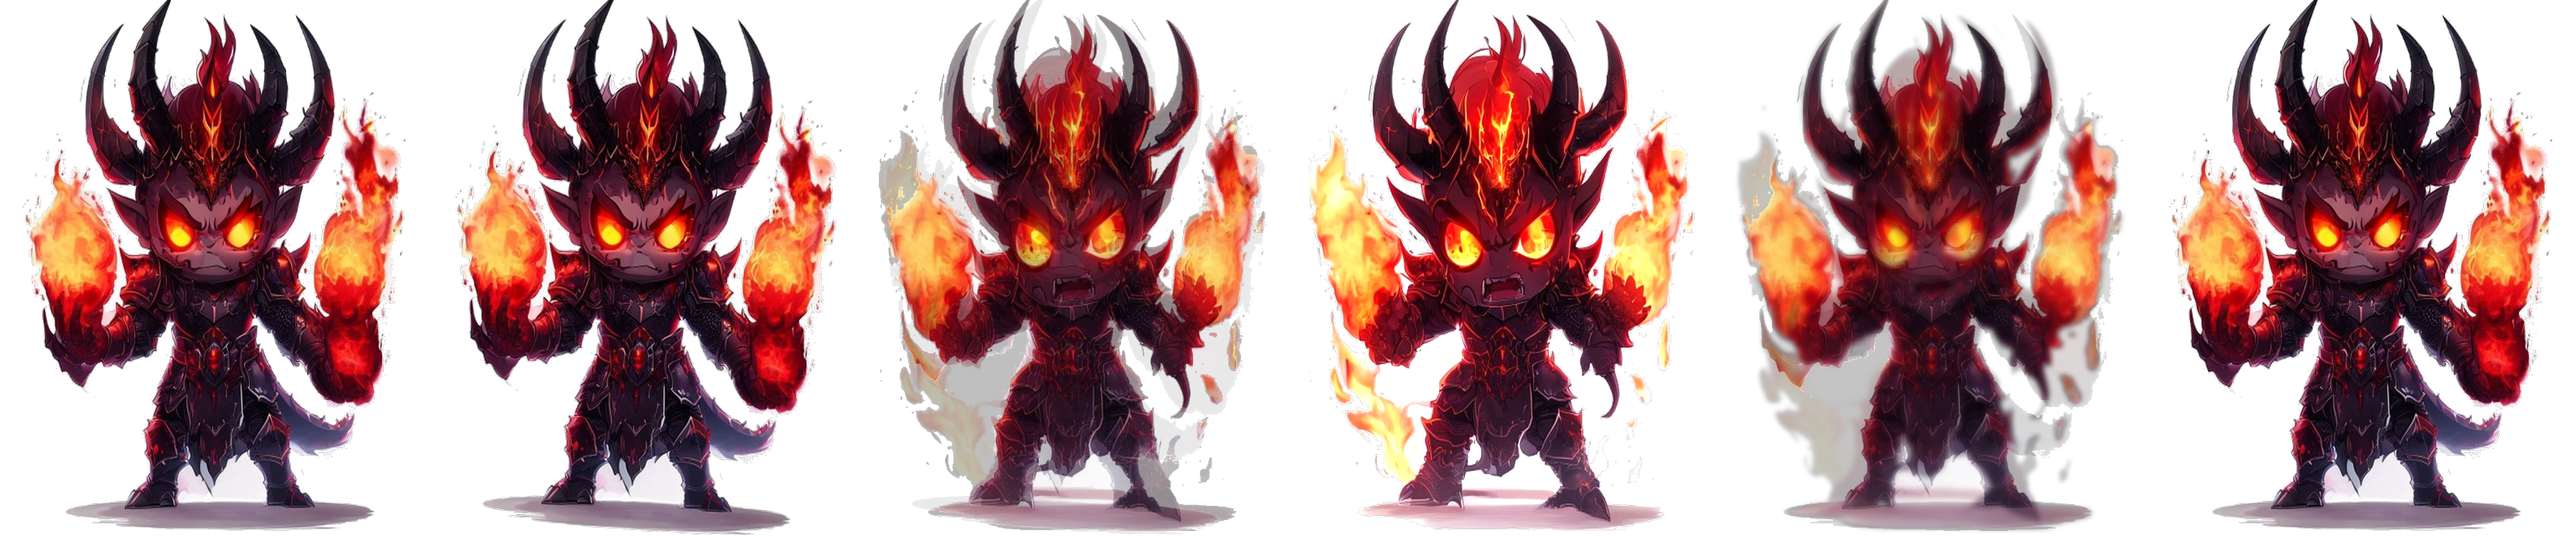
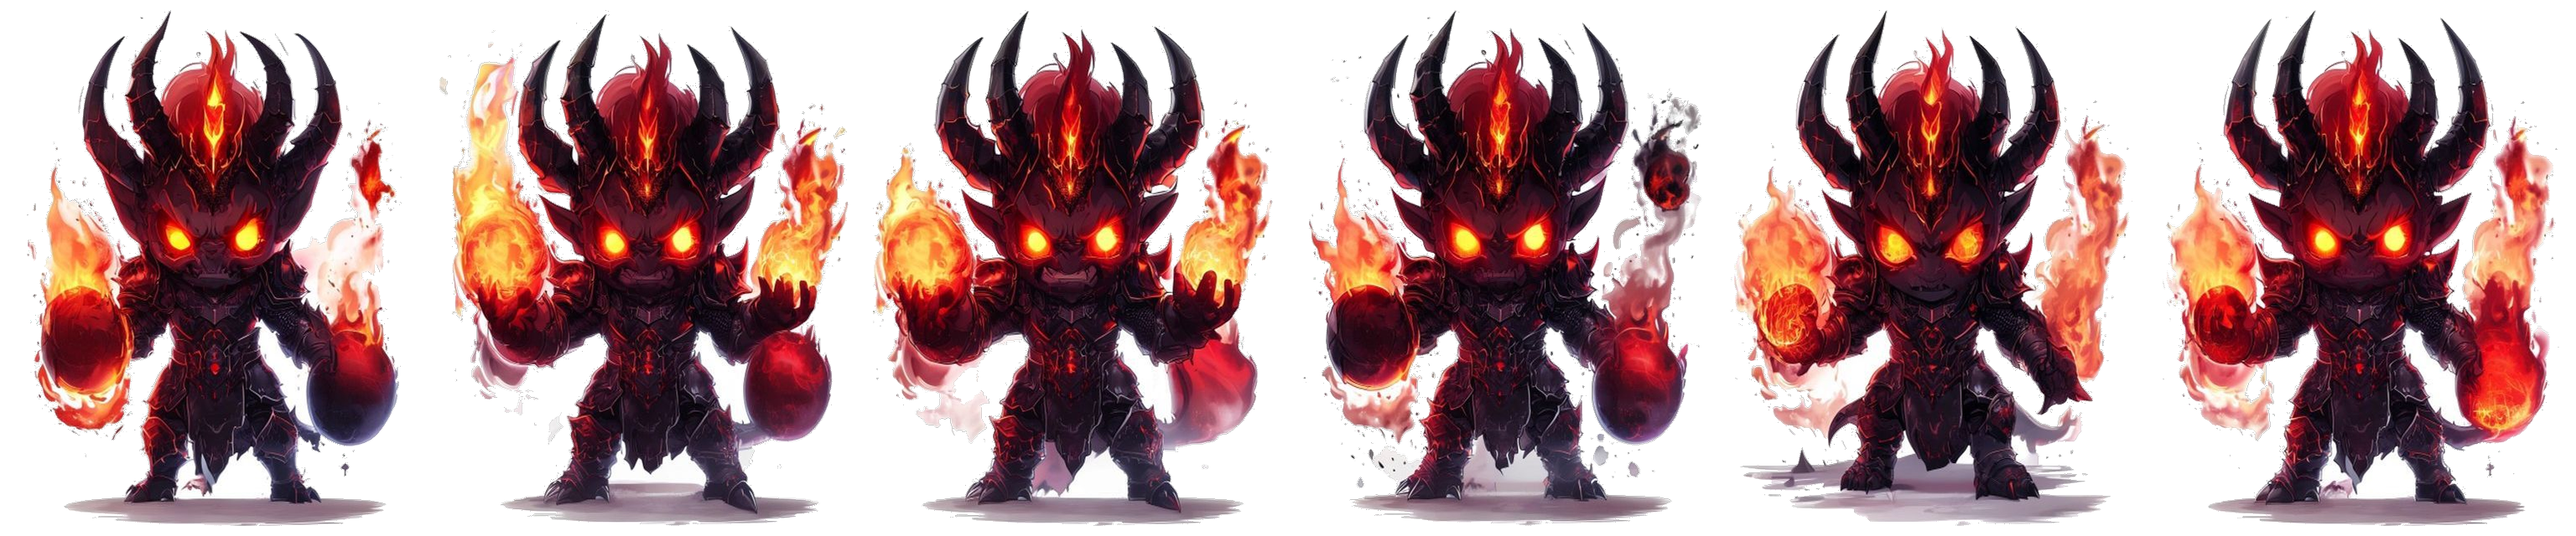
sprite-anim: HP bar 데미지 플래시 + boss-lv2/3 실 6프레임 시트 + test.html 정리
- 보스 HP 바 / 플레이어 HP 바: 데미지 입을 때 .42s 흰빛 플래시
- boss-lv2, boss-lv3: Pollinations 잔여 큐가 결국 6프레임 완성 → 진짜 자세별 시트로 재구축 (블렌딩 버전 대체)
- game/assets/chars/anim/test.html 제거 (개발용)

diff --git a/game/index.html b/game/index.html
@@ -540,8 +540,11 @@ body{
 @media(prefers-reduced-motion:reduce){.action-fx{display:none}.fighter-token,.fighter-portrait,.fighter-arm,.boss-duel::before{animation:none!important}}
 .boss-bars{display:grid;gap:10px;margin-bottom:14px;}
 .boss-bar-row{display:grid;grid-template-columns:62px 1fr 48px;align-items:center;gap:8px;font-size:.75rem;font-weight:900;color:#e0e7ff;}
-.boss-bar{height:13px;background:rgba(15,23,42,.6);border-radius:999px;overflow:hidden;box-shadow:inset 0 2px 5px rgba(0,0,0,.24);}
+.boss-bar{height:13px;background:rgba(15,23,42,.6);border-radius:999px;overflow:hidden;box-shadow:inset 0 2px 5px rgba(0,0,0,.24);position:relative;}
 .boss-bar span{display:block;height:100%;width:100%;border-radius:999px;transition:width .28s ease;}
+.boss-bar::after{content:'';position:absolute;inset:0;border-radius:999px;background:rgba(255,255,255,.85);opacity:0;pointer-events:none;}
+.boss-bar.flash::after{animation:hpFlash .42s ease-out;}
+@keyframes hpFlash{from{opacity:.85;}50%{opacity:.7;}to{opacity:0;}}
 #boss-hp-fill{background:linear-gradient(90deg,#f97316,#ef4444,#be123c);}
 #player-hp-fill{background:linear-gradient(90deg,#22c55e,#0ea5e9);}
 .skill-panel{display:grid;grid-template-columns:1fr auto;align-items:center;gap:10px;margin:-2px 0 14px;background:rgba(15,23,42,.42);border:1px solid rgba(255,255,255,.14);border-radius:16px;padding:10px;}
@@ -3966,8 +3969,23 @@ function showScoreFx(text, type) {
   setTimeout(() => el.remove(), 950);
 }
 
+// ── Trigger HP bar flash on damage ──
+function flashHpBar(target) {
+  const sel = target === 'player' ? '#player-hp-fill' : '#boss-hp-fill';
+  const fill = document.querySelector(sel);
+  if (!fill) return;
+  const bar = fill.parentElement;
+  if (!bar) return;
+  bar.classList.remove('flash');
+  void bar.offsetWidth;
+  bar.classList.add('flash');
+  setTimeout(() => bar.classList.remove('flash'), 420);
+}
+
 // ── Floating damage number over the boss/player token ──
 function floatDamage(target, amount, kind) {
+  // Side-effect: also flash the corresponding HP bar
+  flashHpBar(target);
   // target: 'boss' (default) or 'player'
   const tokenSel = target === 'player' ? '.player-token' : '.boss-token';
   const tok = document.querySelector(tokenSel);
